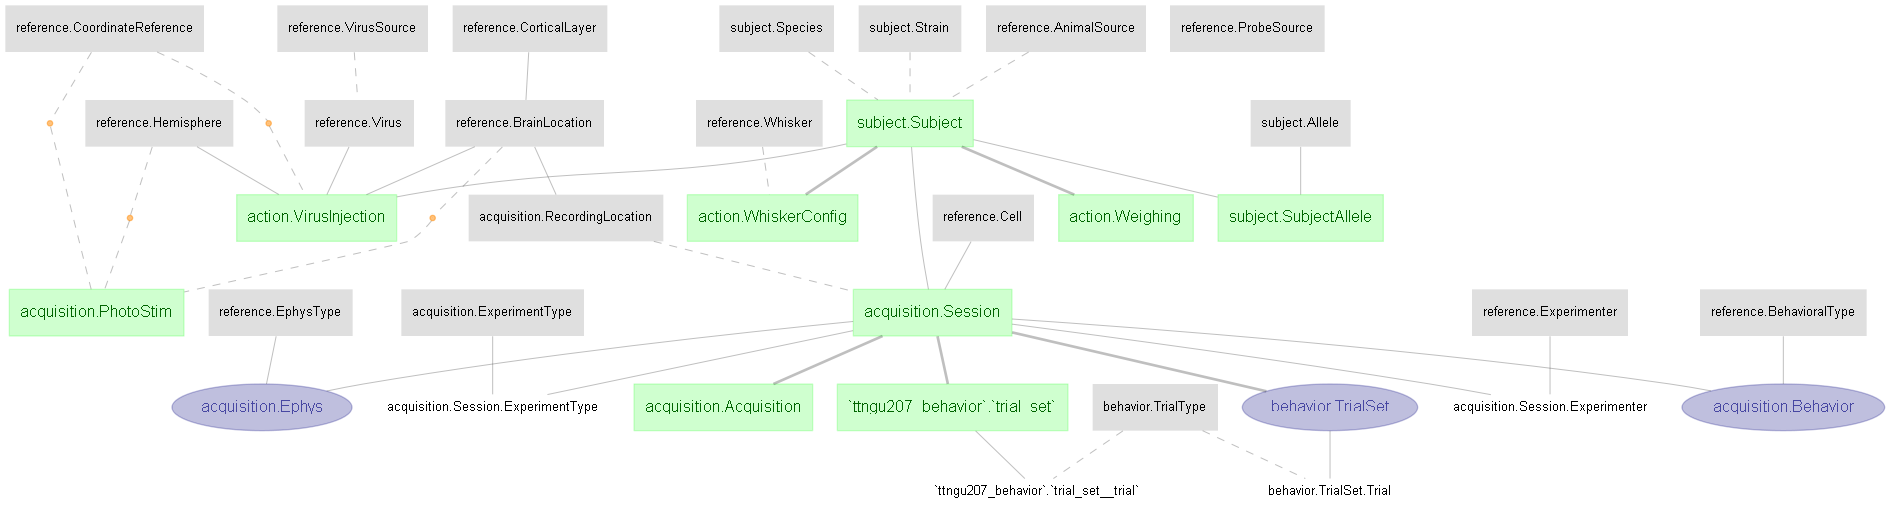
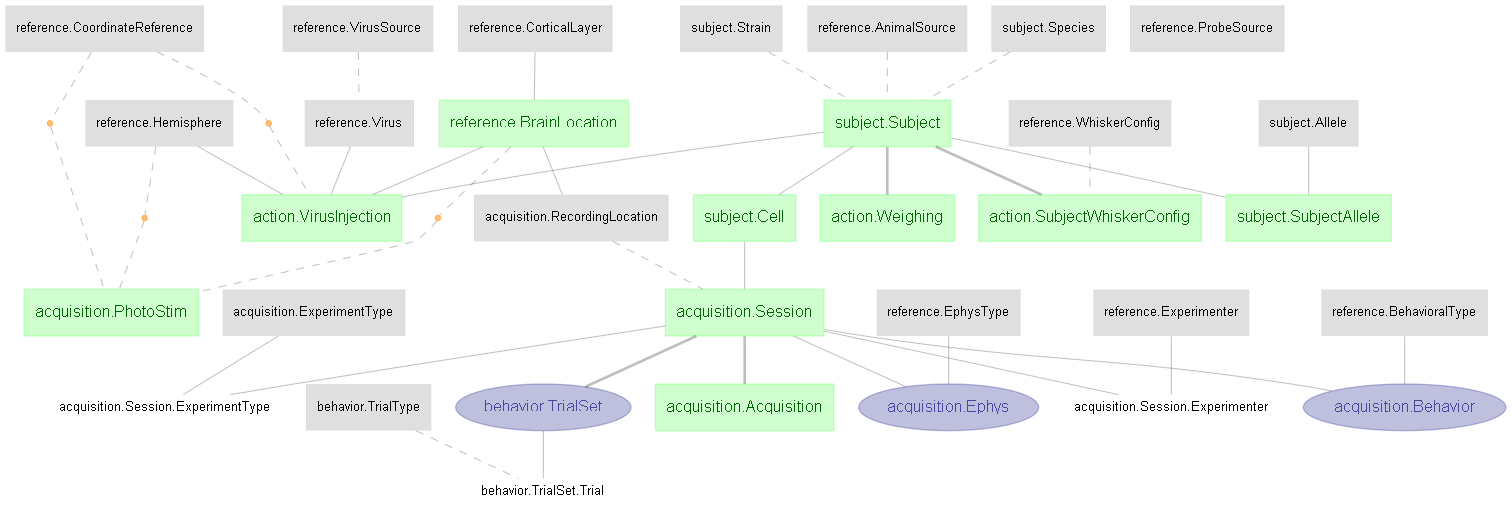
finished with Import for Trial definition

diff --git a/pipeline/behavior.py b/pipeline/behavior.py
@@ -51,7 +51,7 @@ class TrialSet(dj.Imported):
 
     def _make_tuples(self,key):
         
-        data_dir = os.path.abspath('..//..//NWB_Janelia_datasets//crcns_ssc5_data_HiresGutnisky2015//')
+        data_dir = os.path.abspath('..//NWB_Janelia_datasets//crcns_ssc5_data_HiresGutnisky2015//')
         sess_data_dir = os.path.join(data_dir,'datafiles')
         
         sess_data_files = os.listdir(sess_data_dir)
@@ -81,7 +81,7 @@ class TrialSet(dj.Imported):
         else: print(f'Found datafile: {sess_data_file}')
         
         # Now read the data and start ingesting
-        matfile = sio.loadmat(sess_data_dir+sess_data_file, struct_as_record=False)
+        matfile = sio.loadmat(os.path.join(sess_data_dir,sess_data_file), struct_as_record=False)
         sessdata = matfile['c'][0,0]
         
         timeUnitIds = get_list_from_nested_array(sessdata.timeUnitIds)
@@ -100,11 +100,11 @@ class TrialSet(dj.Imported):
         descr = get_list_from_nested_array(trialPropertiesHash.descr)
         keyNames = get_list_from_nested_array(trialPropertiesHash.keyNames)
         value = trialPropertiesHash.value
-        polePos = get_list_from_nested_array(value[0,0]) # this is in microstep
+        polePos = np.array(get_list_from_nested_array(value[0,0])) # this is in microstep
         polePos = polePos * 0.0992 # convert to micron here  (0.0992 microns / microstep)
-        poleInTime = get_list_from_nested_array(value[0,1])
+        poleInTime = np.array(get_list_from_nested_array(value[0,1]))
         poleOutTime = get_list_from_nested_array(value[0,2])
-        lickTime = value[0,3]
+        lickTime = np.array(value[0,3])
         poleTrialCondition = get_list_from_nested_array(value[0,4])
         
         timeSeries = sessdata.timeSeriesArrayHash[0,0]
@@ -115,10 +115,10 @@ class TrialSet(dj.Imported):
         part_key = key.copy() # this is to perserve the original key for use in the part table later
         # form new key-values pair and insert key
         key['trial_time_unit'] = timesUnitDict[trialTimeUnit]
-        key['number_of_trials'] = len(trialIds)
+        key['n_trials'] = len(trialIds)
         self.insert1(key)
         print(f'Inserted trial set for session: Subject: {animal_id} - Cell: {cell} - Date: {date_of_experiment}')
-        
+        print('Inserting trial ID: ', end="")
         for idx, trialId in enumerate(trialIds):
             
             ### Debug here
@@ -149,8 +149,8 @@ class TrialSet(dj.Imported):
             part_key['start_sample'] = this_trial_sample_idx[0]
             part_key['end_sample'] = this_trial_sample_idx[-1]
             self.Trial.insert1(part_key)
-            print(f'Inserted trial ID: {trialId}')
-            
+            print(f'{trialId} ',end="")
+        print('')
         
 
 

diff --git a/ingestion.py b/ingestion.py
@@ -32,7 +32,7 @@ all_erd.save('./images/all_erd.png')
 meta_data_files = os.listdir(meta_data_dir)
 for metadatafile in meta_data_files:    
     print(metadatafile)
-    matfile = sio.loadmat(meta_data_dir+metadatafile, struct_as_record=False)
+    matfile = sio.loadmat(os.path.join(meta_data_dir,metadatafile), struct_as_record=False)
     metadata = matfile['meta_data'][0,0]
     
     animal_ID = get_one_from_nested_array(metadata.animal_ID).upper()            # subject.Subject # .upper() here to handle some inconsistencies in the dataset
@@ -149,7 +149,7 @@ for metadatafile in meta_data_files:
     # handling some inconsistency in cell naming convention in the metadata
     if len(cell) < 7 : cell = cell + '_AAAA'
     
-    reference.Cell.insert1(
+    subject.Cell.insert1(
             {'subject_id':animal_ID,
              'cell_id':cell, 
              'cell_type':cell_type},
@@ -181,7 +181,7 @@ for metadatafile in meta_data_files:
     
     # ------------ Session ------------        
     if date_of_experiment is not None: 
-        with acquisition.Session.connection.start_transaction():
+        with acquisition.Session.connection.transaction:
             acquisition.Session.insert1(            
                         {'subject_id':animal_ID,
                          'cell_id':cell,
@@ -200,7 +200,6 @@ for metadatafile in meta_data_files:
                          }, 
                          skip_duplicates=True)
             # there is still the ExperimentType part table here...
-            acquisition.Session.connection.commit_transaction()
             print(f'\tSession created - Subject: {animal_ID} - Cell: {cell} - Date: {date_of_experiment}')
     
     

diff --git a/pipeline/subject.py b/pipeline/subject.py
@@ -34,7 +34,7 @@ class Allele(dj.Lookup):
 @schema
 class Subject(dj.Manual):
     definition = """
-    subject_id: varchar(64)  # id of the subject (e.g. "ANM244028")
+    subject_id: varchar(64)  # id of the subject (e.g. ANM244028)
     ---
     -> Species
     -> Strain

diff --git a/pipeline/action.py b/pipeline/action.py
@@ -16,11 +16,11 @@ class Weighing(dj.Manual):
     """
 
 @schema
-class WhiskerConfig(dj.Manual):
+class SubjectWhiskerConfig(dj.Manual):
     definition = """
     -> subject.Subject
     ---
-    -> reference.Whisker
+    -> reference.WhiskerConfig
     """
 
 @schema
